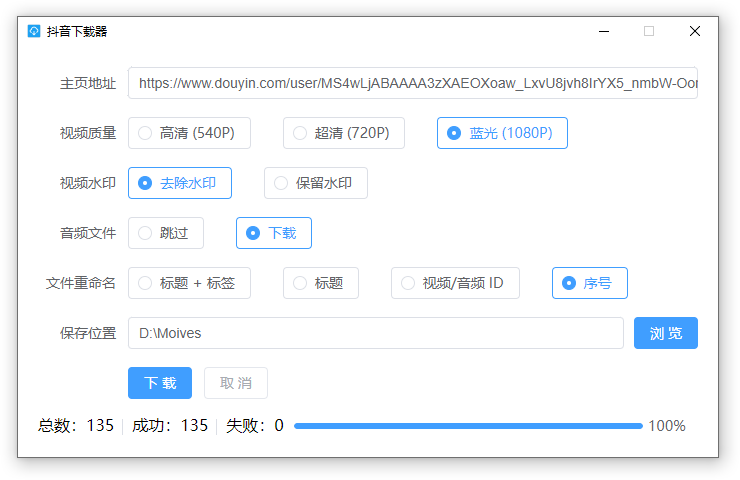
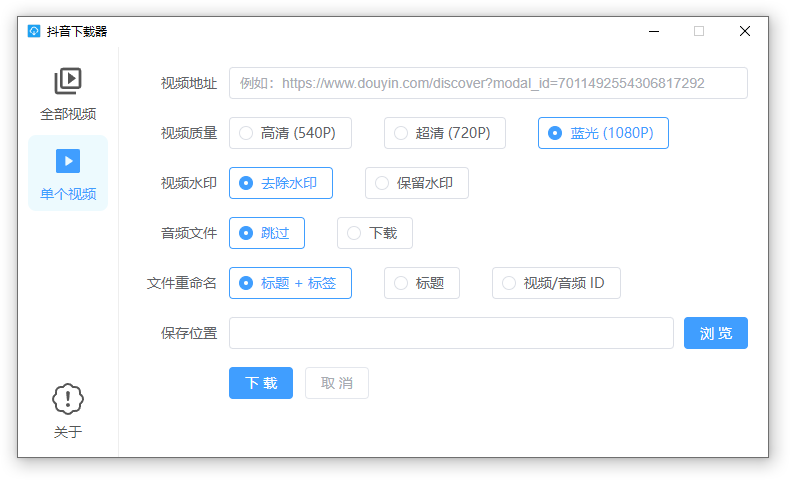
feat: add menu and about page

diff --git a/src/components/single/index.vue b/src/components/single/index.vue
@@ -3,13 +3,13 @@
 <script setup lang="ts">
 import { NameType } from '@/enums'
 import { generateVideoURL } from '@/utils'
-import { invoke, http, dialog } from '@tauri-apps/api'
+import { dialog, http, invoke } from '@tauri-apps/api'
 import { basename } from '@tauri-apps/api/path'
-import { ElButton, ElForm, ElFormItem, ElInput, ElProgress, ElDivider, ElMessage, ElRadioGroup, ElRadio, ElRadioButton } from 'element-plus'
-import { computed, ref } from 'vue'
+import { ElButton, ElForm, ElFormItem, ElInput, ElMessage, ElRadioGroup, ElRadio, ElRadioButton } from 'element-plus'
+import { ref } from 'vue'
 
 const form = ref({
-  homeURL: '',
+  url: '',
   savePath: '',
   ratio: '1080p',
   watermark: 0,
@@ -18,13 +18,7 @@ const form = ref({
 })
 
 const isDownloading = ref(false)
-
-const total = ref(0)
-const successCount = ref(0)
-const failureCount = ref(0)
-const percent = computed(() => Math.floor(((successCount.value + failureCount.value) / total.value) * 100) || 0)
-
-let isListCompleted = false
+const status = ref('')
 
 const onSaveClick = async () => {
   const path = (await dialog.open({ directory: true })) as string
@@ -32,86 +26,66 @@ const onSaveClick = async () => {
 }
 
 const onSubmit = async () => {
-  total.value = 0
-  successCount.value = 0
-  failureCount.value = 0
-  isListCompleted = false
+  status.value = ''
 
-  if (!form.value.homeURL) return ElMessage.error('请输入用户主页地址')
+  if (!form.value.url) return ElMessage.error('请输入视频地址')
   if (!form.value.savePath) return ElMessage.error('请选择保存位置')
 
-  const sec_uid = form.value.homeURL.split('/').pop()
-  const max_cursor = '0'
+  const { searchParams } = new URL(form.value.url)
+  const item_ids = searchParams.get('modal_id')
 
-  if (sec_uid) {
+  if (item_ids) {
     isDownloading.value = true
-    requsetList(sec_uid, max_cursor)
-  } else ElMessage.error('请输入正确的用户主页地址')
+    status.value = '下载中'
+    requestVideo(item_ids)
+  } else ElMessage.error('请输入正确的视频地址')
 }
 
 const onCancelClick = () => {
   isDownloading.value = false
 }
 
-const requsetList = (sec_uid: string, max_cursor: string) => {
-  const listURL = 'https://www.iesdouyin.com/web/api/v2/aweme/post'
+const requestVideo = (item_ids: string) => {
+  const url = 'https://www.douyin.com/web/api/v2/aweme/iteminfo'
 
   http
-    .fetch(listURL, {
-      method: 'GET',
-      query: { sec_uid, max_cursor, count: '100' },
-    })
-    .then((response) => {
+    .fetch(url, { method: 'GET', query: { item_ids } })
+    .then(async (response) => {
       console.log(response)
-
-      if (!isDownloading.value) return
 
       const data = response.data as any
 
-      if (data.has_more) {
-        total.value += data.aweme_list.length
+      if (data.status_code === 0) {
+        const { desc, video } = data.item_list[0]
+        const { vid } = video
+        const isAudio = !vid
 
-        requsetList(sec_uid, data.max_cursor.toString())
+        /** skip audio */
+        if (isAudio && !form.value.audio) return
 
-        data.aweme_list.forEach(async (v: any, i: number) => {
-          const { desc, video } = v
-          const { vid } = video
-          const isAudio = !vid
+        const url = isAudio ? video.play_addr.url_list[0] : generateVideoURL(vid, form.value.ratio, form.value.watermark)
 
-          /** skip audio */
-          if (isAudio && !form.value.audio) return
+        let name = ''
+        switch (form.value.nameType) {
+          case NameType.TitleTag:
+            name = desc
+            break
+          case NameType.Title:
+            const index = desc.indexOf('#')
+            if (index === -1) name = desc.trim()
+            else name = desc.substring(0, index).trim()
+            break
+          case NameType.ID:
+            name = isAudio ? await basename(url, '.mp3') : vid
+            break
+        }
 
-          const url = isAudio ? video.play_addr.url_list[0] : generateVideoURL(vid, form.value.ratio, form.value.watermark)
-
-          let name = ''
-          switch (form.value.nameType) {
-            case NameType.TitleTag:
-              name = desc
-              break
-            case NameType.Title:
-              const index = desc.indexOf('#')
-              if (index === -1) name = desc.trim()
-              else name = desc.substring(0, index).trim()
-              break
-            case NameType.ID:
-              name = isAudio ? await basename(url, '.mp3') : vid
-              break
-            case NameType.Index:
-              name = (total.value - data.aweme_list.length + i + 1).toString()
-              break
-          }
-
-          const ext = isAudio ? '.mp3' : '.mp4'
-          const path = `${form.value.savePath}/${name}${ext}`
-          invoke('download', { url, path })
-            .then(() => successCount.value++)
-            .catch(() => failureCount.value++)
-            .finally(() => isListCompleted && percent.value === 100 && (isDownloading.value = false))
-        })
-      } else {
-        console.log('over')
-        isListCompleted = true
-        percent.value === 100 && (isDownloading.value = false)
+        const ext = isAudio ? '.mp3' : '.mp4'
+        const path = `${form.value.savePath}/${name}${ext}`
+        invoke('download', { url, path })
+          .then(() => (status.value = '下载成功'))
+          .catch(() => (status.value = '下载失败'))
+          .finally(() => (isDownloading.value = false))
       }
     })
     .catch((error) => console.error(error))

diff --git a/src/components/menu/index.vue b/src/components/menu/index.vue
@@ -1,20 +1,43 @@
 <template lang="pug" src="./index.pug"></template>
-<style lang="stylus" src="./index.styl"></style>
+<style scoped lang="stylus" src="./index.styl"></style>
 <script setup lang="ts">
 import store from '@/store'
-import video from '@/assets/svgs/video.svg'
-import videos from '@/assets/svgs/videos.svg'
+import videoLine from '@/assets/img/video-line.svg'
+import videoFill from '@/assets/img/video-fill.svg'
+import videosLine from '@/assets/img/videos-line.svg'
+import videosFill from '@/assets/img/videos-fill.svg'
+import aboutLine from '@/assets/img/about-line.svg'
+import aboutFill from '@/assets/img/about-fill.svg'
 
-const menus = [
-  {
-    name: '全部视频',
-    icon: videos,
-  },
-  {
-    name: '单个视频',
-    icon: video,
-  },
-]
+enum MenuType {
+  Multiple,
+  Single,
+  About,
+}
+
+const menus = {
+  top: [
+    {
+      type: MenuType.Multiple,
+      name: '全部视频',
+      icon: [videosLine, videosFill],
+    },
+    {
+      type: MenuType.Single,
+      name: '单个视频',
+      icon: [videoLine, videoFill],
+    },
+  ],
+  bottom: [
+    {
+      type: MenuType.About,
+      name: '关于',
+      icon: [aboutLine, aboutFill],
+    },
+  ],
+}
+
+const isActive = (type: MenuType) => store.state.activeMenu === type
 
 const onMenuClick = (index: number) => store.setActiveMenu(index)
 </script>

diff --git a/src/components/updater/index.vue b/src/components/updater/index.vue
@@ -2,23 +2,17 @@
 <style lang="stylus" src="./index.styl"></style>
 <script setup lang="ts">
 import { relaunch } from '@tauri-apps/api/process'
-import { checkUpdate, installUpdate } from '@tauri-apps/api/updater'
+import { installUpdate } from '@tauri-apps/api/updater'
 import { onMounted, ref } from 'vue'
 import { ElButton, ElDialog } from 'element-plus'
+import { checkUpdate } from '@/utils'
+import store from '@/store'
 
-const isDialogVisible = ref(false)
-const version = ref('')
+onMounted(() => checkUpdate())
 
-onMounted(() => {
-  checkUpdate()
-    .then(({ shouldUpdate, manifest }) => {
-      if (shouldUpdate) {
-        version.value = manifest!.version
-        isDialogVisible.value = true
-      }
-    })
-    .catch((error) => console.error(error))
-})
+const onCancelClick = () => {
+  store.setUpdater({ active: false })
+}
 
 const onUpdateClick = async () => {
   await installUpdate()

diff --git a/src/components/about/index.vue b/src/components/about/index.vue
@@ -1,0 +1,23 @@
+<template lang="pug" src="./index.pug"></template>
+<style scoped lang="stylus" src="./index.styl"></style>
+<script setup lang="ts">
+import { ElButton } from 'element-plus'
+import { checkUpdate } from '@/utils'
+import { app, shell } from '@tauri-apps/api'
+import { onMounted, ref } from 'vue'
+
+const isCheckLoading = ref(false)
+const version = ref('')
+
+onMounted(async () => {
+  version.value = await app.getVersion()
+})
+
+const onGithubClick = () => shell.open('https://github.com/lzdyes/douyin-downloader')
+
+const onCheckUpdateClick = async () => {
+  isCheckLoading.value = true
+  await checkUpdate()
+  isCheckLoading.value = false
+}
+</script>

diff --git a/src/app.vue b/src/app.vue
@@ -5,7 +5,11 @@ Updater
 </template>
 
 <style lang="stylus">
+html, body
+  height 100%
+
 #app
+  height 100%
   display flex
 </style>
 
@@ -13,12 +17,13 @@ Updater
 import store from '@/store'
 import { invoke } from '@tauri-apps/api/tauri'
 import { onMounted } from 'vue'
+import About from './components/about/index.vue'
 import Menu from './components/menu/index.vue'
 import Multiple from './components/multiple/index.vue'
 import Single from './components/single/index.vue'
 import Updater from './components/updater/index.vue'
 
-const components = [Multiple, Single]
+const components = [Multiple, Single, About]
 
 onMounted(() => invoke('show'))
 </script>

diff --git a/src/utils/index.ts b/src/utils/index.ts
@@ -1,5 +1,17 @@
+import { updater } from '@tauri-apps/api'
+import store from '@/store'
+
 export const sleep = (delay?: number) => new Promise<void>((resole) => setTimeout(resole, delay))
 
 export const generateVideoURL = (vid: string, ratio: string, watermark: number) => {
   return `https://aweme.snssdk.com/aweme/v1/play/?video_id=${vid}&ratio=${ratio}&watermark=${watermark}`
+}
+
+export const checkUpdate = async () => {
+  try {
+    const { shouldUpdate, manifest } = await updater.checkUpdate()
+    shouldUpdate && store.setUpdater({ active: true, version: manifest?.version })
+  } catch (error) {
+    console.error(error)
+  }
 }

diff --git a/src/store/index.ts b/src/store/index.ts
@@ -1,12 +1,24 @@
 import { reactive } from 'vue'
 
+interface Updater {
+  active: boolean
+  version?: string
+}
+
 class Store {
   state = reactive({
     activeMenu: 0,
+    updater: {
+      active: false,
+    },
   })
 
   setActiveMenu(index: number) {
     this.state.activeMenu = index
+  }
+
+  setUpdater(updater: Updater) {
+    this.state.updater = updater
   }
 }
 

diff --git a/README.md b/README.md
@@ -21,6 +21,7 @@ A cross-platform download douyin video tool built with <a href="https://github.c
 
 ![](docs/screenshots/windows_1.png)
 ![](docs/screenshots/windows_2.png)
+![](docs/screenshots/windows_3.png)
 
 ## Install
 
